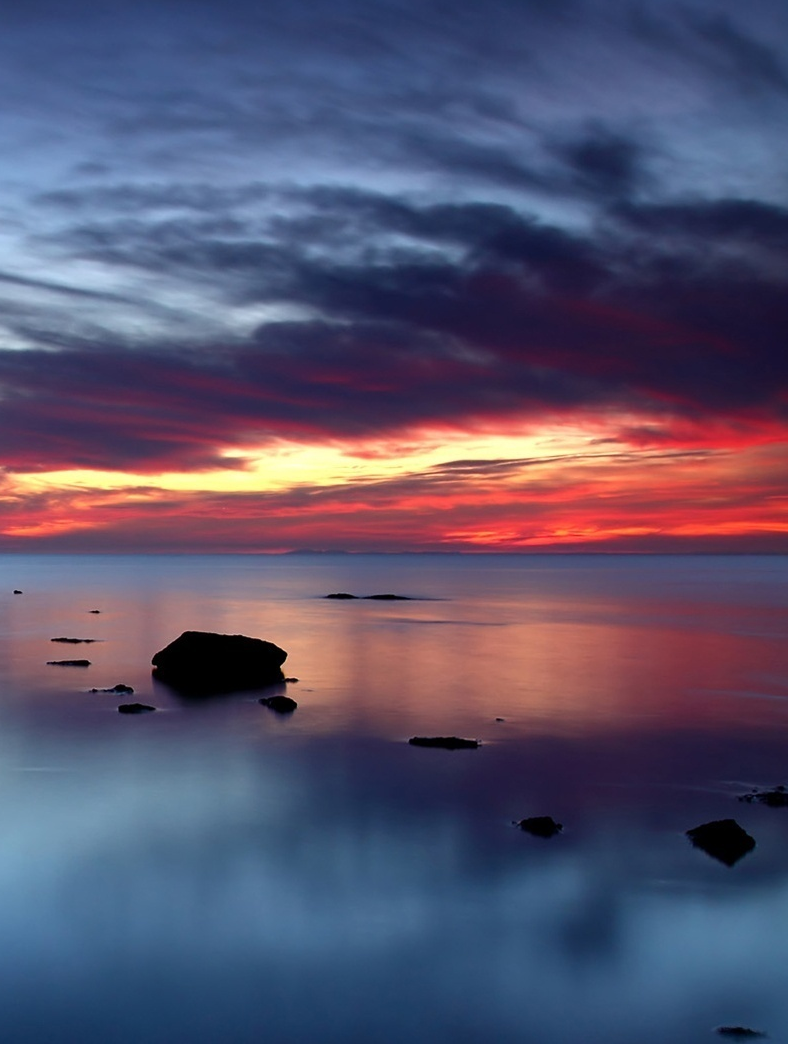
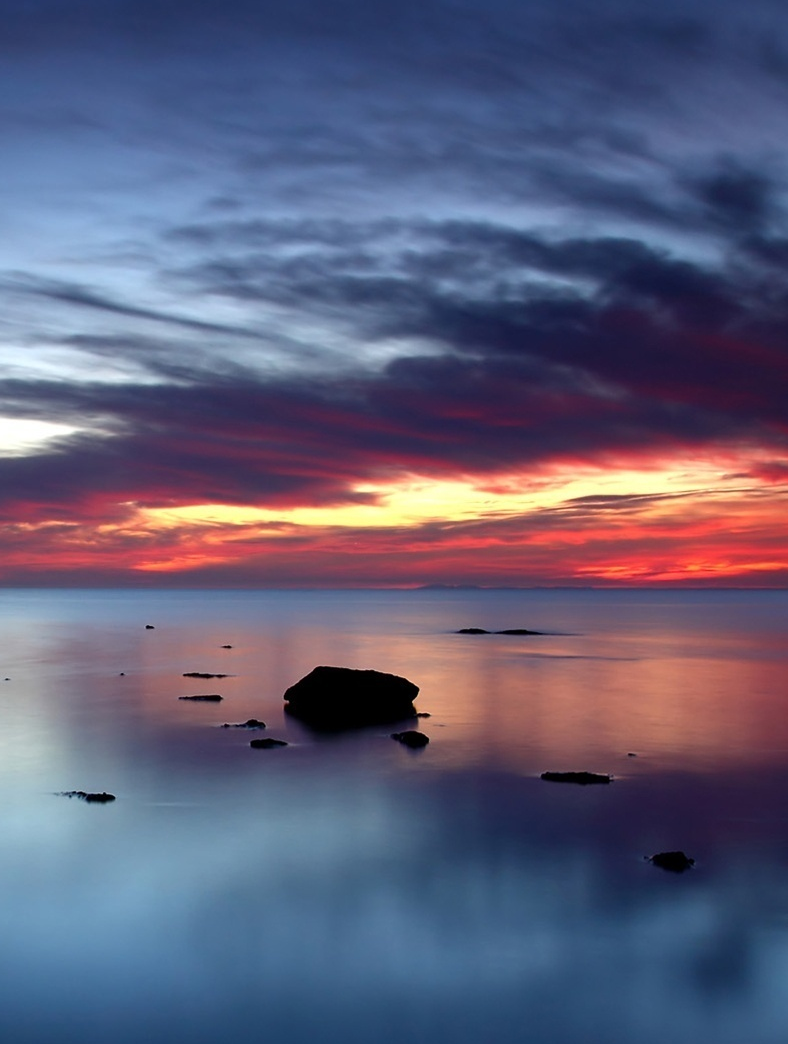
Modified image for medium screens

diff --git a/css/style.css b/css/style.css
@@ -146,7 +146,7 @@ hr {
 
 @media screen and (min-width: 510px) {
   body {
-    background-image: url("../images/ocean-md2.png");
+    background-image: url("../images/ocean-md.png");
     width: 100%;
     margin: 0 auto;
   }
